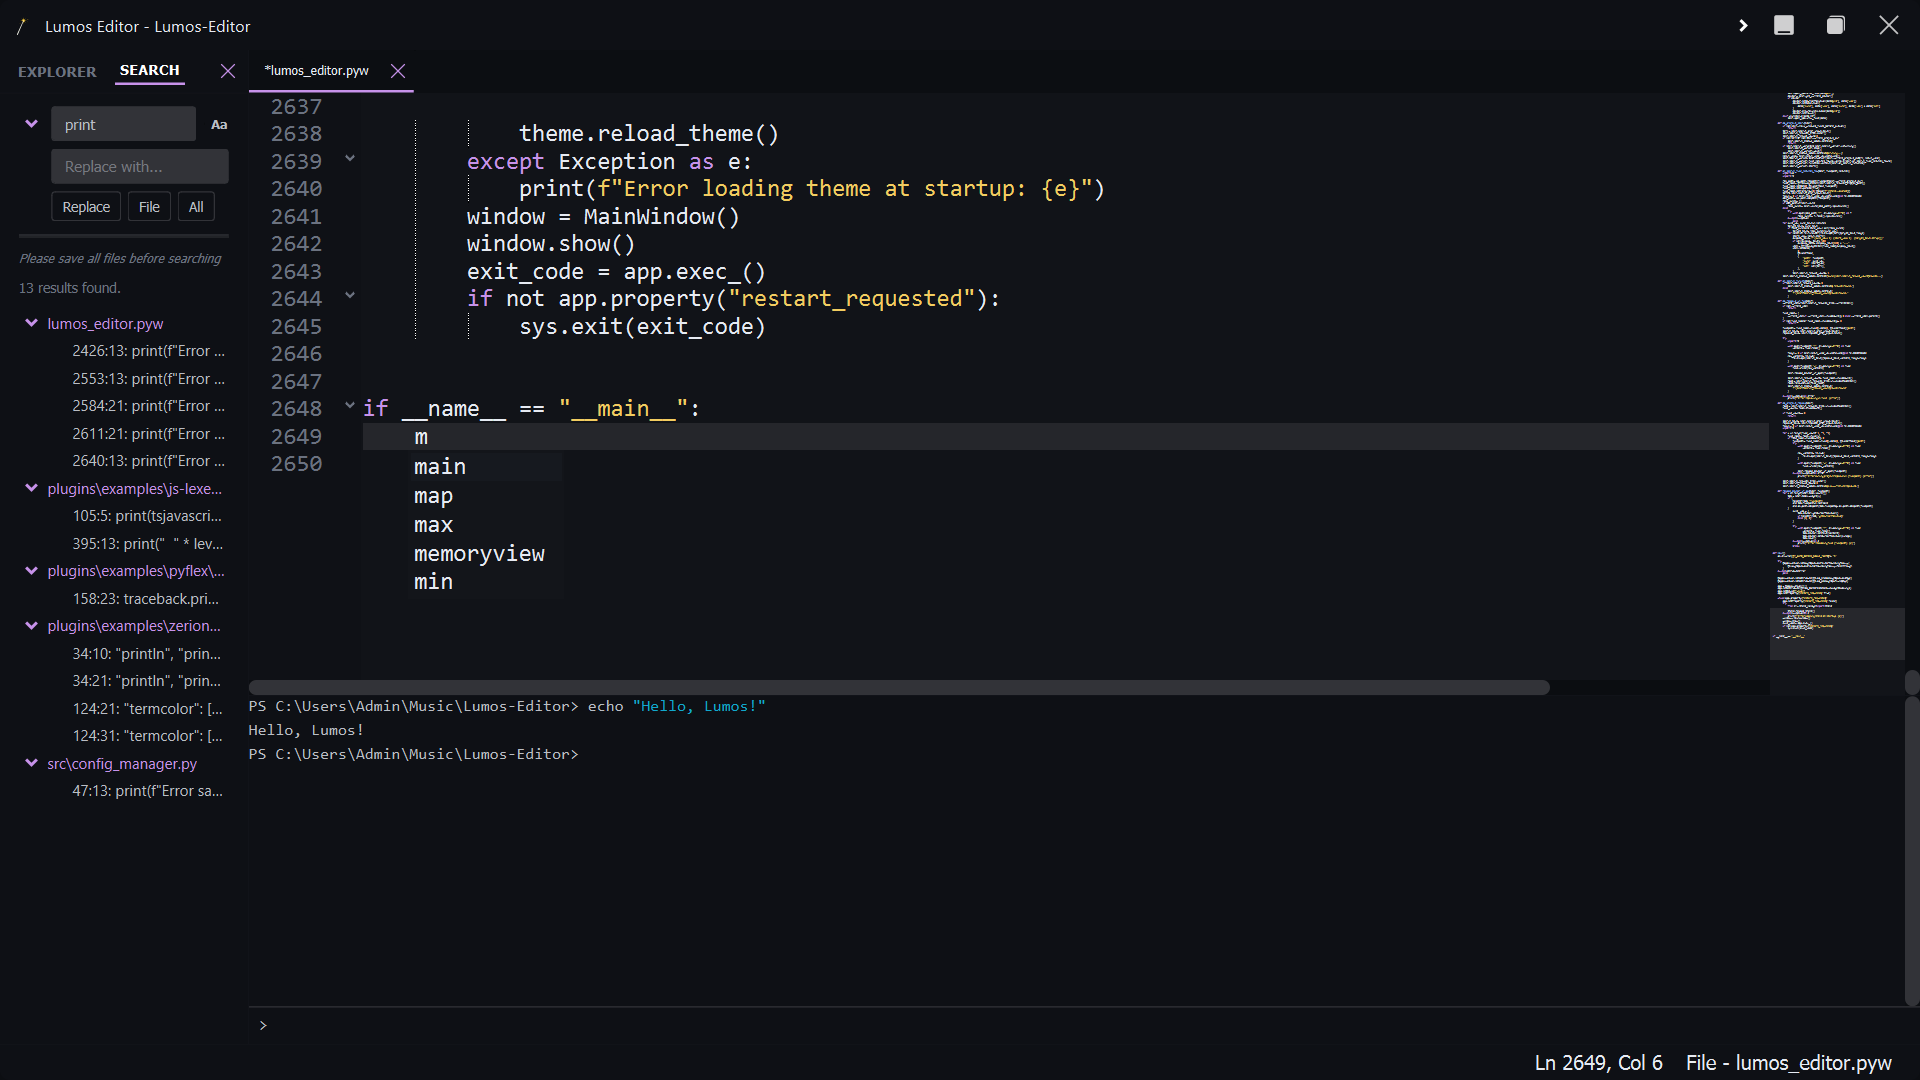
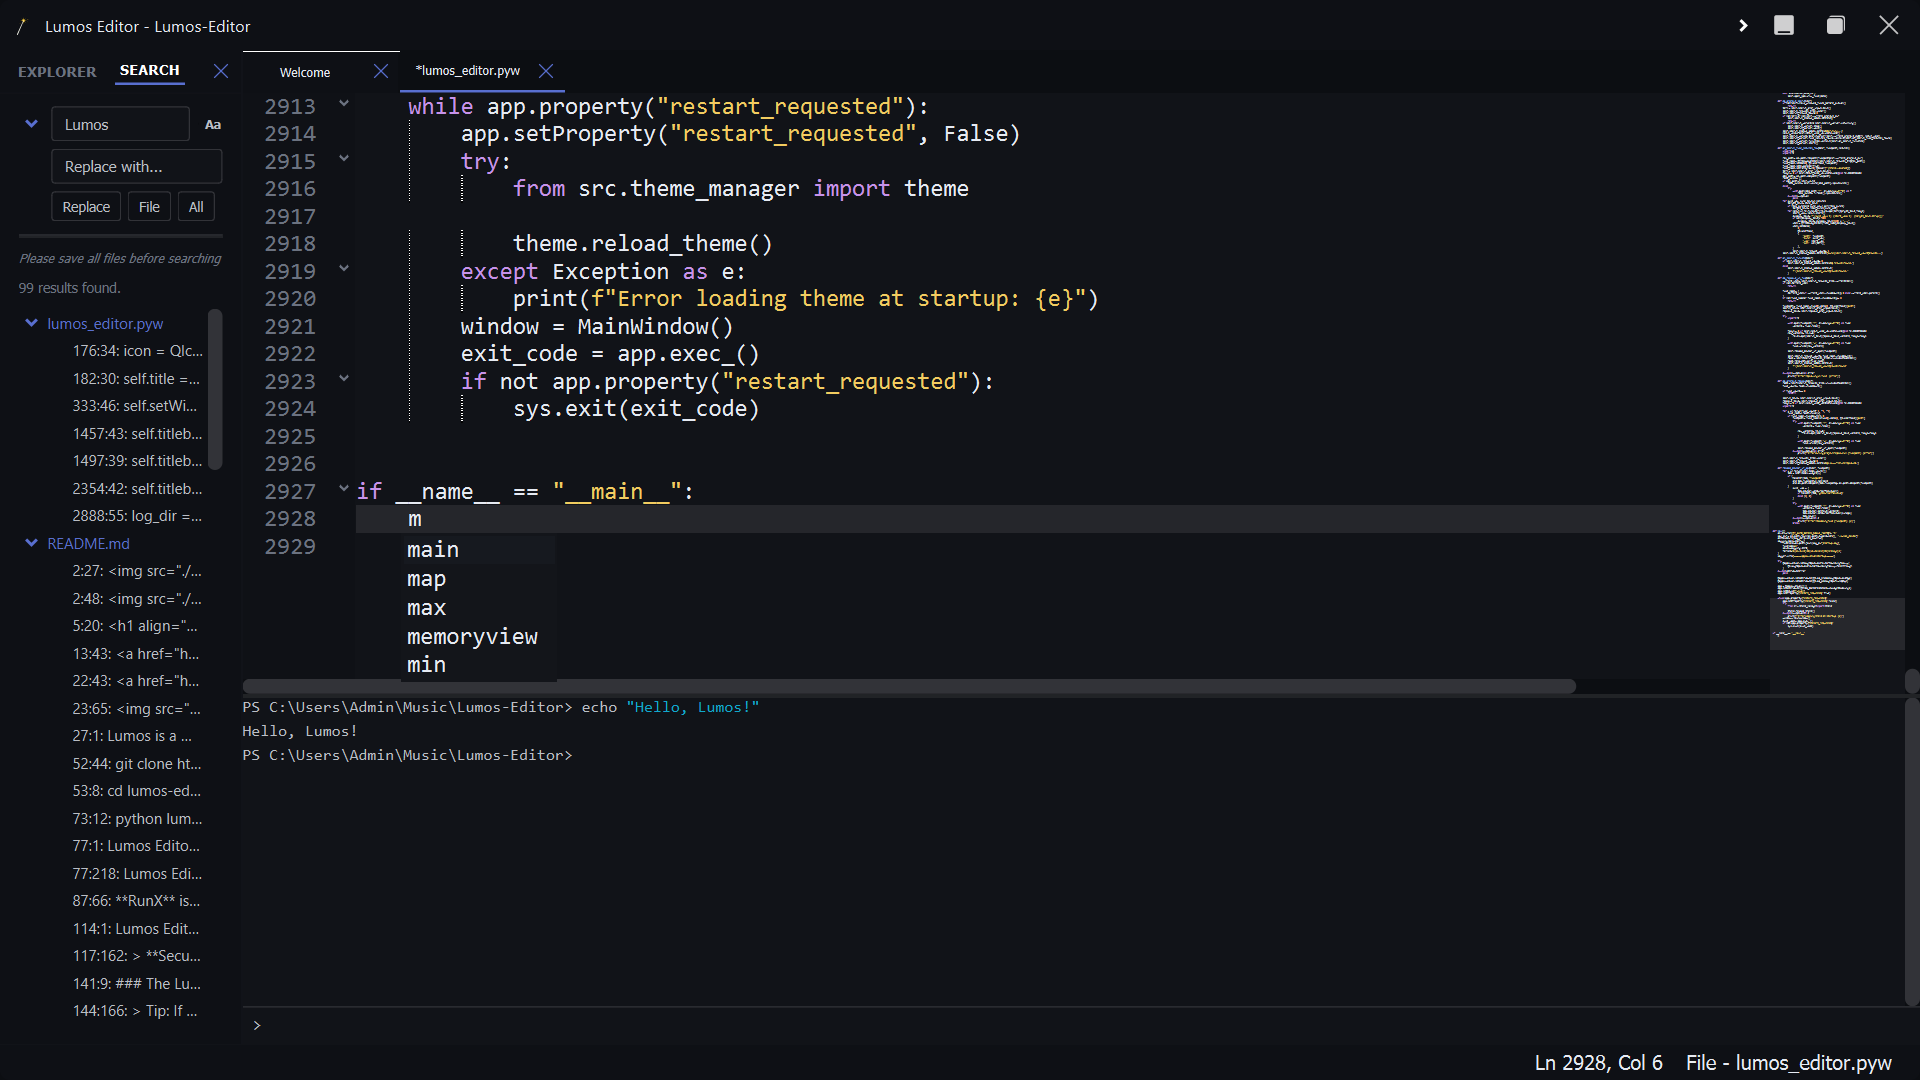
feat(theme): add accent color support to themes and enhance UI customization feat(logging): implement logging for explorer width adjustments and session management fix(terminal): improve terminal background color handling based on theme refactor(dialogs): update themed dialog styles and add QToolBut

diff --git a/src/themed_dialog.py b/src/themed_dialog.py
@@ -6,6 +6,7 @@ from PyQt5.QtWidgets import (
     QDialogButtonBox,
     QFileDialog,
     QHBoxLayout,
+    QHeaderView,
     QLabel,
     QLineEdit,
     QSizePolicy,
@@ -66,6 +67,19 @@ def themed_dialog_stylesheet(dialog_selector):
             color: {theme.color27};
             background: transparent;
         }}
+        QToolButton {{
+            background-color: transparent;
+            color: {theme.color27};
+            border: 1px solid transparent;
+            border-radius: 4px;
+        }}
+        QToolButton:hover {{
+            background-color: {theme.color9};
+            border-color: {theme.color13};
+        }}
+        QToolButton:pressed {{
+            background-color: {theme.color11};
+        }}
         {themed_input_stylesheet("QLineEdit, QComboBox, QTextEdit, QListView, QTreeView")}
         QHeaderView::section {{
             background-color: {theme.color7};
@@ -73,10 +87,28 @@ def themed_dialog_stylesheet(dialog_selector):
             border: 1px solid {theme.color13};
             padding: 4px;
         }}
+        QComboBox::drop-down {{
+            background-color: {theme.color7};
+            border: none;
+            border-left: 1px solid {theme.color13};
+            width: 22px;
+        }}
+        QComboBox::down-arrow {{
+            image: url(resources:/chevron-down.png);
+            width: 12px;
+            height: 12px;
+        }}
         QComboBox QAbstractItemView {{
             background-color: {theme.color2};
             color: {theme.color27};
+            border: 1px solid {theme.color13};
+            outline: 0;
             selection-background-color: {theme.color9};
+            selection-color: {theme.color27};
+        }}
+        QComboBox QAbstractItemView::item:hover {{
+            background-color: {theme.color9};
+            color: {theme.color27};
         }}
         QCheckBox {{
             color: {theme.color27};
@@ -395,9 +427,50 @@ class ThemedFileDialog(QDialog):
         self.file_dialog.setOptions(options | QFileDialog.DontUseNativeDialog)
         self.file_dialog.setWindowFlags(Qt.Widget)
         self.file_dialog.setStyleSheet(themed_dialog_stylesheet("QFileDialog"))
+        self._apply_file_dialog_palette()
         layout.addWidget(self.file_dialog, 1)
         self.file_dialog.accepted.connect(self.accept)
         self.file_dialog.rejected.connect(self.reject)
+
+    def _apply_file_dialog_palette(self):
+        palette = self.file_dialog.palette()
+        for role, color in (
+            (QPalette.Window, theme.color2),
+            (QPalette.Base, theme.color2),
+            (QPalette.AlternateBase, theme.color7),
+            (QPalette.Text, theme.color27),
+            (QPalette.WindowText, theme.color27),
+            (QPalette.Button, theme.color7),
+            (QPalette.ButtonText, theme.color27),
+            (QPalette.Highlight, theme.color9),
+            (QPalette.HighlightedText, theme.color27),
+        ):
+            palette.setColor(role, QColor(color))
+        self.file_dialog.setPalette(palette)
+
+        for combo_box in self.file_dialog.findChildren(QComboBox):
+            combo_box.setPalette(palette)
+            popup_view = combo_box.view()
+            popup_view.setPalette(palette)
+            popup_view.setAutoFillBackground(True)
+            popup_window = popup_view.window()
+            popup_window.setPalette(palette)
+            popup_window.setAutoFillBackground(True)
+            popup_window.setStyleSheet(
+                "QFrame {"
+                f"background-color: {theme.color2};"
+                f"color: {theme.color27};"
+                f"border: 1px solid {theme.color13};"
+                "}"
+            )
+
+        for header in self.file_dialog.findChildren(QHeaderView):
+            header.setPalette(palette)
+            header.setStyleSheet(
+                "QHeaderView {"
+                f"color: {theme.color27};"
+                "}"
+            )
 
     @classmethod
     def getOpenFileName(

diff --git a/src/terminal.py b/src/terminal.py
@@ -58,6 +58,12 @@ COLOR_MAP = {
 }
 
 
+def _terminal_background_color():
+    if theme.is_dark:
+        return theme.color1
+    return QColor(theme.color1).darker(106).name()
+
+
 def get_color_hex(color_str, default_color):
     if not color_str or color_str == "default":
         return default_color
@@ -499,7 +505,7 @@ class Backend(QtCore.QThread):
             self.output_buffer[line_no] = line_chars
 
         default_fg = theme.color26 if hasattr(theme, "color26") else "#e5e5e5"
-        default_bg = theme.color2 if hasattr(theme, "color2") else "#1e1e1e"
+        default_bg = _terminal_background_color()
 
         html_lines = []
         for line_chars in self.output_buffer:
@@ -723,7 +729,7 @@ class Terminal(QWidget):
         self.input_container.setFixedHeight(30)
         self.input_container.setStyleSheet(
             "QWidget#InputContainer {"
-            f"   background-color: {theme.color2};"
+            f"   background-color: {_terminal_background_color()};"
             f"   border-top: 1px solid {theme.color15};"
             "}"
         )
@@ -885,7 +891,7 @@ class _TerminalWidget(QTextEdit):
 
     def update_stylesheet(self):
         self.setStyleSheet(
-            f"QTextEdit {{ border: 0; color: {theme.color26}; background-color: {theme.color2}; font-family: Consolas, monospace; font-size: 13px; }}"
+            f"QTextEdit {{ border: 0; color: {theme.color26}; background-color: {_terminal_background_color()}; font-family: Consolas, monospace; font-size: 13px; }}"
         )
 
     @property

diff --git a/src/theme_manager.py b/src/theme_manager.py
@@ -98,13 +98,15 @@ class LumosThemeManager:
         c_paper = QColor(t.get("paper-color", "#1e1e1e"))
         c_margin = QColor(t.get("margin-color", "#8d8a9f"))
         c_text = QColor("#d4d4d4")
-        c_accent = QColor("#0098ff")
+        c_keyword = QColor("#0098ff")
 
         for syntax in t.get("syntax", []):
             if "default" in syntax:
                 c_text = QColor(syntax["default"].get("color", c_text.name()))
             if "keyword" in syntax:
-                c_accent = QColor(syntax["keyword"].get("color", c_accent.name()))
+                c_keyword = QColor(syntax["keyword"].get("color", c_keyword.name()))
+
+        c_accent = QColor(t.get("accent-color", c_keyword.name()))
 
         self.is_dark = c_paper.lightness() < 128
         bg_target = QColor("#ffffff") if self.is_dark else QColor("#000000")

diff --git a/README.md b/README.md
@@ -66,6 +66,7 @@ Lumos is a modern, extensible code editor built with PyQt5, featuring syntax hig
 4. **(Optional) Add Custom Themes:**
     -   Create a `themes/your-theme` folder in the root directory.
     -   Add your custom `theme.json` theme files to the [themes](themes) folder.
+    -   Set `theme.accent-color` to customize UI accents independently of syntax highlighting. If omitted, the keyword color is used for backward compatibility.
 
 5.  **Run the editor:**
     ```sh
